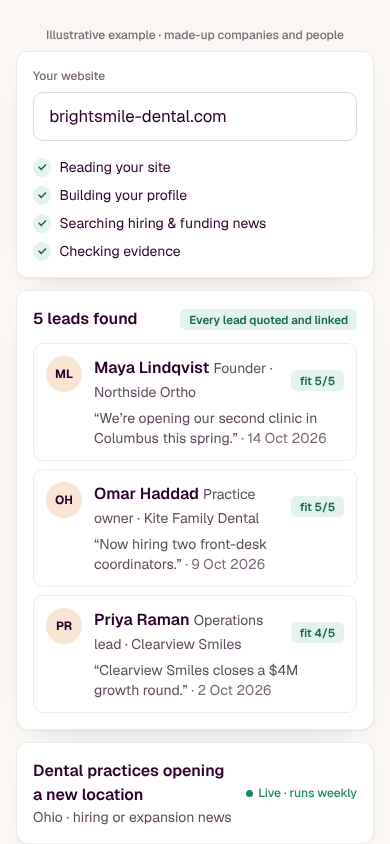
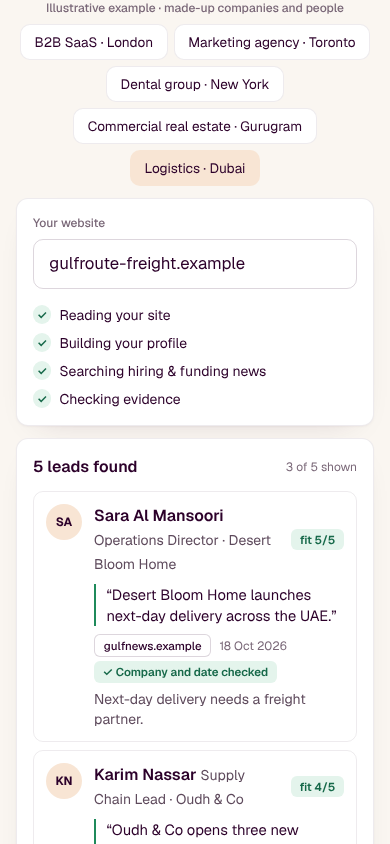
Homepage: lead with the evidence, any business anywhere, exact approval wording
- Hero: every lead comes with the quoted line, a working source link and a
  date, checked for company and date before it is marked ready; 'Evidence for
  every lead, not a list of guesses'; 'For any business, in any country'.
- Demo lead cards show quote + source + date + 'Company and date checked'
  and a one-line why. The demo rotates across five businesses in five
  countries (SaaS London, agency Toronto, dental NYC, CRE Gurugram,
  logistics Dubai), with chips to pick one.
- Examples live in lib/landing-examples.ts with a real flag: the slot for
  real leads from saved scans. While false, the illustrative label stays and
  no source is linked (copy-truth enforces both).
- Approval: 'Nothing sends until you approve it.' Autopilot is account-wide
  (autopilot_settings per tenant), opt-in, capped and starts after your
  first approved sends; no per-Play claim.
- Pricing minimal: Free 'Start free'; one Pro line that keeps the provider
  billing condition. No BYOK in the hero.

Claude-Session: https://claude.ai/code/session_01CafonXdzjwkFYiMRJWtsKo

diff --git a/web/app/landing-demo.tsx b/web/app/landing-demo.tsx
@@ -1,15 +1,13 @@
 "use client"
 import { useEffect, useState } from 'react'
+import { EXAMPLES } from '@/lib/landing-examples'
 
-// The homepage demo: the real flow, played on a loop, labelled as an illustrative example (made-up data). A website is typed, the checks tick through,
-// five leads are found (three shown) and the Play goes live. Reduced motion shows the finished state.
-const URL_TEXT = 'brightsmile-dental.com'
+// The homepage demo: the real flow, played on a loop, labelled as an illustrative example while its data is made up
+// (lib/landing-examples.ts). A website is typed, the checks tick through, five leads are found (three shown with their
+// evidence) and the Play goes live; each loop shows a different business and country, and the chips pick one. Reduced
+// motion shows the finished state.
 const CHECKS = ['Reading your site', 'Building your profile', 'Searching hiring & funding news', 'Checking evidence']
-const LEADS = [
-  { name: 'Maya Lindqvist', title: 'Founder', company: 'Northside Ortho', fit: 5, quote: '“We’re opening our second clinic in Columbus this spring.”', date: '14 Oct 2026' },
-  { name: 'Omar Haddad', title: 'Practice owner', company: 'Kite Family Dental', fit: 5, quote: '“Now hiring two front-desk coordinators.”', date: '9 Oct 2026' },
-  { name: 'Priya Raman', title: 'Operations lead', company: 'Clearview Smiles', fit: 4, quote: '“Clearview Smiles closes a $4M growth round.”', date: '2 Oct 2026' },
-]
+const N = EXAMPLES.scenarios.length
 // Timeline in steps of TICK ms: typing, one step per check, leads, then the live Play, then hold and loop.
 const TICK = 650
 const TYPE_END = 4, CHECKS_END = TYPE_END + CHECKS.length, LEADS_AT = CHECKS_END + 1, PLAY_AT = LEADS_AT + 3, LOOP = PLAY_AT + 7
@@ -17,18 +15,24 @@ const TYPE_END = 4, CHECKS_END = TYPE_END + CHECKS.length, LEADS_AT = CHECKS_END
 const initials = (n: string) => n.split(' ').map(w => w[0]).join('').slice(0, 2)
 
 export default function LandingDemo() {
-  const [t, setT] = useState(0)
+  // t: the step in the current run; sc: which business is shown. Each loop moves on to the next business.
+  const [{ t, sc }, setRun] = useState({ t: 0, sc: 0 })
+  const [still, setStill] = useState(false)
   useEffect(() => {
-    if (window.matchMedia('(prefers-reduced-motion: reduce)').matches) { setT(PLAY_AT); return } // eslint-disable-line react-hooks/set-state-in-effect
-    const id = setInterval(() => setT(x => (x + 1) % LOOP), TICK)
+    if (window.matchMedia('(prefers-reduced-motion: reduce)').matches) { setStill(true); setRun({ t: PLAY_AT, sc: 0 }); return } // eslint-disable-line react-hooks/set-state-in-effect
+    const id = setInterval(() => setRun(r => r.t + 1 >= LOOP ? { t: 0, sc: (r.sc + 1) % N } : { t: r.t + 1, sc: r.sc }), TICK)
     return () => clearInterval(id)
   }, [])
+  const S = EXAMPLES.scenarios[sc], LEADS = S.leads, URL_TEXT = S.site
   const typed = t >= TYPE_END ? URL_TEXT : URL_TEXT.slice(0, Math.ceil((URL_TEXT.length * t) / TYPE_END))
   const done = t >= LEADS_AT
   return (
-    <div className="lp-demo" data-testid="landing-demo" data-step={t >= PLAY_AT ? 'live' : done ? 'leads' : t >= TYPE_END ? 'checks' : 'typing'} aria-label="Illustrative example of a dazl run, with made-up companies and people: a website in, checks, leads found, a Play that runs weekly">
-      <div className="text-xs font-medium text-[var(--ink-3)] mb-2 text-center" data-testid="demo-label">Illustrative example · made-up companies and people</div>
-      <div className="lp-card p-4 sm:p-5">
+    <div className="lp-demo" data-testid="landing-demo" data-step={t >= PLAY_AT ? 'live' : done ? 'leads' : t >= TYPE_END ? 'checks' : 'typing'} aria-label={EXAMPLES.real ? 'A dazl run: a website in, checks, leads found with their evidence, a Play that runs weekly' : 'Illustrative example of a dazl run, with made-up companies and people: a website in, checks, leads found, a Play that runs weekly'}>
+      {!EXAMPLES.real && <div className="text-xs font-medium text-[var(--ink-3)] mb-2 text-center" data-testid="demo-label">Illustrative example · made-up companies and people</div>}
+      <div className="flex flex-wrap justify-center gap-1.5 mb-3" role="group" aria-label="Pick a business to see its run" data-testid="demo-chips">
+        {EXAMPLES.scenarios.map((x, i) => <button key={x.id} type="button" className="chip text-xs" aria-pressed={i === sc} onClick={() => setRun({ t: still ? PLAY_AT : 0, sc: i })}>{x.chip}</button>)}
+      </div>
+      <div className="lp-card p-4 sm:p-5" data-testid="demo-scenario" data-scenario={S.id}>
         <div className="text-xs font-medium text-[var(--ink-3)] mb-2">Your website</div>
         <div className="lp-url">{typed}<span className="lp-caret" aria-hidden /></div>
         <ul className="mt-4 grid sm:grid-cols-2 gap-x-6 gap-y-2 text-sm">
@@ -44,7 +48,7 @@ export default function LandingDemo() {
       <div className={`lp-card mt-3 p-4 sm:p-5 lp-fade ${done ? 'lp-in' : ''}`}>
         <div className="flex items-center justify-between mb-3">
           <div className="font-semibold">5 leads found</div>
-          <span className="pill pill-mint">Every lead quoted and linked</span>
+          <span className="text-xs text-[var(--ink-3)]">3 of 5 shown</span>
         </div>
         <div className="grid gap-2">
           {LEADS.map((l, i) => (
@@ -56,7 +60,13 @@ export default function LandingDemo() {
                     <div className="min-w-0"><span className="font-semibold">{l.name}</span> <span className="text-[var(--ink-2)] text-sm">{l.title} · {l.company}</span></div>
                     <span className="pill pill-mint shrink-0">fit {l.fit}/5</span>
                   </div>
-                  <div className="text-sm text-[var(--ink-2)] mt-1">{l.quote} <span className="text-[var(--ink-3)] whitespace-nowrap">· {l.date}</span></div>
+                  <blockquote className="lp-quote mt-2">“{l.quote}”</blockquote>
+                  <div className="flex flex-wrap items-center gap-x-2 gap-y-1 mt-2 text-xs" data-testid="demo-evidence">
+                    {l.url ? <a className="pill pill-plain" href={l.url} target="_blank" rel="noopener noreferrer nofollow">{l.source}</a> : <span className="pill pill-plain">{l.source}</span>}
+                    <span className="text-[var(--ink-3)]">{l.date}</span>
+                    <span className="pill pill-mint">✓ Company and date checked</span>
+                  </div>
+                  <div className="text-sm text-[var(--ink-2)] mt-1.5">{l.why}</div>
                 </div>
               </div>
             </div>
@@ -64,7 +74,7 @@ export default function LandingDemo() {
         </div>
       </div>
       <div className={`lp-card mt-3 p-4 flex items-center justify-between gap-3 lp-fade ${t >= PLAY_AT ? 'lp-in' : ''}`} data-testid="demo-play">
-        <div className="min-w-0"><div className="font-semibold">Dental practices opening a new location</div><div className="text-sm text-[var(--ink-2)]">Ohio · hiring or expansion news</div></div>
+        <div className="min-w-0"><div className="font-semibold">{S.play}</div><div className="text-sm text-[var(--ink-2)]">{S.where}</div></div>
         <span className="live-dot shrink-0">Live · runs weekly</span>
       </div>
     </div>

diff --git a/web/lib/landing-examples.ts b/web/lib/landing-examples.ts
@@ -1,0 +1,37 @@
+// The homepage demo's scenarios: very different businesses and countries, because dazl works for any business,
+// anywhere. The slot for real ones: set `real: true` and fill each lead from a saved scan (a working source URL, the
+// quoted line exactly as on that page, its date, and why the signal matters). While `real` is false the demo is labelled
+// on screen and for screen readers as an illustrative example with made-up companies and people, and no source is linked.
+export interface ExampleLead { name: string; title: string; company: string; fit: number; quote: string; source: string; url: string | null; date: string; why: string }
+export interface Scenario { id: string; chip: string; site: string; play: string; where: string; leads: ExampleLead[] }
+const L = (name: string, title: string, company: string, fit: number, quote: string, source: string, date: string, why: string): ExampleLead => ({ name, title, company, fit, quote, source, url: null, date, why })
+export const EXAMPLES: { real: boolean; scenarios: Scenario[] } = {
+  real: false,
+  scenarios: [
+    { id: 'saas-london', chip: 'B2B SaaS · London', site: 'ledgerline.example', play: 'Seed-funded UK startups hiring their first sales rep', where: 'London · funding and hiring news', leads: [
+      L('Hannah Okoro', 'Co-founder & CEO', 'Parcelwise', 5, 'Parcelwise raises £2.4M seed to expand across the UK.', 'uktechnews.example', '21 Oct 2026', 'New money and a sales hire coming: they will need a sales process.'),
+      L('Tom Ashby', 'Founder', 'Brightdesk', 5, 'We’re hiring our first Account Executive in London.', 'brightdesk.example', '17 Oct 2026', 'A first sales hire is the moment to set up outbound.'),
+      L('Priya Shah', 'COO', 'Fernbrook Health', 4, 'Fernbrook Health closes seed round led by Northzone.', 'sifted.example', '9 Oct 2026', 'Post-seed teams buy tools before they scale headcount.'),
+    ] },
+    { id: 'agency-toronto', chip: 'Marketing agency · Toronto', site: 'northpeak-creative.example', play: 'Toronto companies launching a new brand or product', where: 'Toronto · launches and rebrands', leads: [
+      L('Daniel Tremblay', 'Marketing Director', 'Maple & Oak Furniture', 5, 'Maple & Oak opens its first flagship store on Queen West.', 'blogto.example', '19 Oct 2026', 'A flagship opening needs a launch campaign.'),
+      L('Aisha Rahman', 'Founder', 'Glow Botanics', 4, 'Glow Botanics launches in 120 Shoppers Drug Mart stores.', 'retail-insider.example', '12 Oct 2026', 'National retail launch, small in-house team.'),
+      L('Marc Gagnon', 'VP Growth', 'Tidewater Payments', 4, 'Tidewater Payments unveils new brand ahead of US expansion.', 'betakit.example', '6 Oct 2026', 'A rebrand before expansion is agency work.'),
+    ] },
+    { id: 'dental-nyc', chip: 'Dental group · New York', site: 'brightsmile-dental.example', play: 'NYC dental practices opening a new location', where: 'New York · expansion and hiring news', leads: [
+      L('Maya Lindqvist', 'Founder', 'Northside Ortho', 5, 'We’re opening our second clinic in Park Slope this spring.', 'brooklynpaper.example', '14 Oct 2026', 'A second clinic means a second front desk to book.'),
+      L('Omar Haddad', 'Practice owner', 'Kite Family Dental', 5, 'Now hiring two front-desk coordinators.', 'kitefamilydental.example', '9 Oct 2026', 'Hiring for scheduling is the problem you solve.'),
+      L('Rosa Delgado', 'Practice manager', 'Astoria Smiles', 4, 'Astoria Smiles adds Saturday hours and a fourth chair.', 'qns.example', '2 Oct 2026', 'More chairs and hours, more appointments to fill.'),
+    ] },
+    { id: 'cre-gurugram', chip: 'Commercial real estate · Gurugram', site: 'axisspaces.example', play: 'Companies expanding offices in Gurugram and Delhi NCR', where: 'Gurugram · expansion and funding news', leads: [
+      L('Rohan Mehta', 'Head of Admin', 'Zentro Logistics', 5, 'Zentro to double its Gurugram headcount to 400 by March.', 'economictimes.example', '20 Oct 2026', 'Doubling headcount means a bigger office.'),
+      L('Ananya Iyer', 'CFO', 'Finvest Labs', 4, 'Finvest Labs raises ₹120 crore Series B.', 'inc42.example', '11 Oct 2026', 'Series B teams move to larger offices.'),
+      L('Vikram Sethi', 'Facilities Manager', 'Kairo Health', 4, 'Kairo Health opens its NCR operations centre.', 'livemint.example', '4 Oct 2026', 'A new operations centre needs space now.'),
+    ] },
+    { id: 'logistics-dubai', chip: 'Logistics · Dubai', site: 'gulfroute-freight.example', play: 'UAE retailers and e-commerce brands scaling deliveries', where: 'Dubai · launches and expansion news', leads: [
+      L('Sara Al Mansoori', 'Operations Director', 'Desert Bloom Home', 5, 'Desert Bloom Home launches next-day delivery across the UAE.', 'gulfnews.example', '18 Oct 2026', 'Next-day delivery needs a freight partner.'),
+      L('Karim Nassar', 'Supply Chain Lead', 'Oudh & Co', 4, 'Oudh & Co opens three new stores in Dubai Mall and Abu Dhabi.', 'khaleejtimes.example', '10 Oct 2026', 'More stores, more stock to move.'),
+      L('Leila Haddad', 'Founder', 'FitBox ME', 4, 'FitBox ME expands to Saudi Arabia after a $6M round.', 'wamda.example', '3 Oct 2026', 'Cross-border expansion needs logistics.'),
+    ] },
+  ],
+}

diff --git a/web/app/page.tsx b/web/app/page.tsx
@@ -15,12 +15,12 @@ export const metadata: Metadata = {
 const STEPS = [
   { n: '1', title: 'Paste your website', desc: 'That is the only thing you type. dazl reads your site and works out who buys from you and which signals to watch for. You can edit it.' },
   { n: '2', title: 'Get new leads every week', desc: 'Your Play runs again each week, searching hiring, funding and expansion news. Each lead comes with the line that shows the signal, linked to its source.' },
-  { n: '3', title: 'Approve and send', desc: 'dazl drafts the message. You approve each one, and it goes from your own Gmail.' },
+  { n: '3', title: 'Approve and send', desc: 'dazl drafts the message from the evidence. Nothing sends until you approve it, and it goes from your own Gmail.' },
 ]
 const PROOF = [
   ['Quoted and linked', 'Every lead shows the exact line from its source page, with the link.'],
   ['Company and date checked', 'dazl confirms the page names the company and that the date is recent. Leads that fail a check are held for your review, out of the ready-to-contact list.'],
-  ['You approve each send', 'Email goes from your own Gmail after you approve the text. Autopilot is off unless you turn it on.'],
+  ['Nothing sends until you approve it', 'Email goes from your own Gmail. Autopilot is off unless you turn it on; it has a sending limit you set and starts only after you have approved your first sends.'],
 ]
 
 export default function Home() {
@@ -41,7 +41,9 @@ export default function Home() {
 
       <section className="px-4 sm:px-6 pt-12 md:pt-20 pb-10 max-w-4xl mx-auto w-full text-center">
         <h1 className="lp-h1">Your website in.<br />Verified leads out.</h1>
-        <p className="text-lg md:text-xl text-[var(--ink-2)] mt-6 max-w-2xl mx-auto leading-relaxed">dazl reads your site, finds companies showing buying signals right now, and drafts the message. You approve each one.</p>
+        <p className="text-lg md:text-xl text-[var(--ink-2)] mt-6 max-w-2xl mx-auto leading-relaxed">dazl reads your site and finds companies with a buying signal right now. Every lead comes with the quoted line, a working source link and a date, and dazl checks the company and date match before a lead is marked ready.</p>
+        <p className="text-sm font-semibold mt-4" data-testid="hero-contrast">Evidence for every lead, not a list of guesses.</p>
+        <p className="text-sm text-[var(--ink-2)] mt-1" data-testid="hero-any">For any business, in any country: paste your website and dazl works out who buys from you.</p>
         <div className="flex flex-wrap gap-3 mt-8 justify-center">
           <a href="/api/auth/google" className="btn-primary btn-lg" data-testid="hero-cta">Start free</a>
           <a href="#how" className="btn-ghost btn-lg">See how it works</a>
@@ -77,19 +79,18 @@ export default function Home() {
       </section>
 
       <section id="pricing" className="px-4 sm:px-6 py-16 max-w-6xl mx-auto w-full">
-        <h2 className="lp-h2 text-center mb-2">Simple pricing</h2>
-        <p className="text-[var(--ink-2)] text-center mb-10">One flat price for dazl. No credits, no per-lead fees. Searches run on your own AI key, billed by your provider.</p>
+        <h2 className="lp-h2 text-center mb-10">Simple pricing</h2>
         <div className="grid sm:grid-cols-2 gap-4 max-w-2xl mx-auto">
           <div className="lp-card p-7">
             <div className="text-sm font-medium text-[var(--ink-2)] mb-1">Free</div>
             <div className="text-4xl font-semibold mb-2">$0</div>
-            <p className="text-[var(--ink-2)] text-sm mb-6">3 trial scans, then your own AI key. Your provider bills you directly for usage.</p>
+            <p className="text-[var(--ink-2)] text-sm mb-6">Start free.</p>
             <a href="/api/auth/google" className="btn-ghost w-full text-center block">Start free</a>
           </div>
           <div className="lp-card p-7">
             <div className="text-sm font-medium mb-1">Pro</div>
             <div className="text-4xl font-semibold mb-2">$49<span className="text-base font-medium text-[var(--ink-2)]">/mo</span></div>
-            <p className="text-[var(--ink-2)] text-sm mb-6">No credits, no per-lead fees. Runs on your own AI key: your provider bills that usage separately. Fair-use limits apply.</p>
+            <p className="text-[var(--ink-2)] text-sm mb-6">One flat price. Runs on your own AI key: your provider bills that usage separately. Fair-use limits apply.</p>
             <a href="/api/auth/google" className="btn-primary w-full text-center block">Start free, upgrade any time</a>
           </div>
         </div>

diff --git a/web/test/copy-truth.test.ts b/web/test/copy-truth.test.ts
@@ -30,7 +30,12 @@ test('homepage claims match behaviour (Instinct #326): example demo labelled, we
   assert.match(demo, /Live · runs weekly/)
   // The demo's people and companies are invented: labelled on screen and for screen readers.
   assert.match(demo, /data-testid="demo-label">Illustrative example · made-up companies and people</)
-  assert.match(demo, /aria-label="Illustrative example of a dazl run, with made-up companies and people/)
+  assert.match(demo, /'Illustrative example of a dazl run, with made-up companies and people/)
+  // The example leads are made up until real ones from a saved scan are swapped in; until then the label must show.
+  const ex = read('lib/landing-examples.ts')
+  assert.match(ex, /real: false/)
+  assert.match(demo, /\{!EXAMPLES\.real && <div[^>]*data-testid="demo-label"/)
+  assert.doesNotMatch(ex, /url: 'http/, 'made-up leads link no source')
   // Leads that fail a check are kept as held research for review, not deleted.
   assert.doesNotMatch(page, /are dropped|drops what fails/)
   assert.match(page, /held for your review, out of the ready-to-contact list/)
@@ -38,4 +43,18 @@ test('homepage claims match behaviour (Instinct #326): example demo labelled, we
   const pro = page.slice(page.indexOf('>Pro<'), page.indexOf('Start free, upgrade any time'))
   assert.match(pro, /your provider bills that usage separately/)
   assert.doesNotMatch(page, /no overages/i)
+})
+
+test('homepage approval wording is exact (Hermes): nothing sends until approved; autopilot opt-in, account-wide', () => {
+  const page = read('app/page.tsx')
+  assert.match(page, /Nothing sends until you approve it/)
+  assert.match(page, /Autopilot is off unless you turn it on; it has a sending limit you set and starts only after you have approved your first sends/)
+  // Autopilot is one switch per account (lib/outreach/autopilot.ts autopilot_settings keyed by tenant): no per-Play claim.
+  assert.match(read('lib/outreach/autopilot.ts'), /tenant_id TEXT PRIMARY KEY/)
+  assert.doesNotMatch(page, /which Plays it covers/)
+  // The warm-up the wording relies on: the first sends are approved by the user.
+  assert.match(read('lib/outreach/autopilot.ts'), /WARMUP_SENDS/)
+  // No BYOK or trial-scan wording in the hero.
+  const hero = page.slice(page.indexOf('<h1'), page.indexOf('<LandingDemo'))
+  assert.doesNotMatch(hero, /BYOK|own (AI )?key|trial/i)
 })

diff --git a/web/app/globals.css b/web/app/globals.css
@@ -173,3 +173,4 @@ body { font-size: 16px; line-height: 1.5; }
 .lp-fade { opacity: .25; transform: translateY(4px); transition: opacity .45s, transform .45s; }
 .lp-fade.lp-in { opacity: 1; transform: none; }
 @media (prefers-reduced-motion: reduce) { .lp-fade, .lp-tick { transition: none; } .lp-caret, .lp-tick-now { animation: none; } }
+.lp-quote { font-size: .92rem; line-height: 1.45; color: var(--ink); border-left: 2px solid var(--mint); padding-left: .65rem; }
